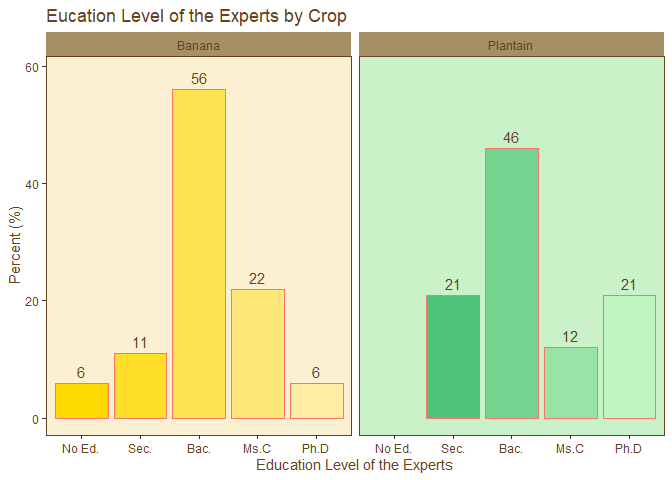
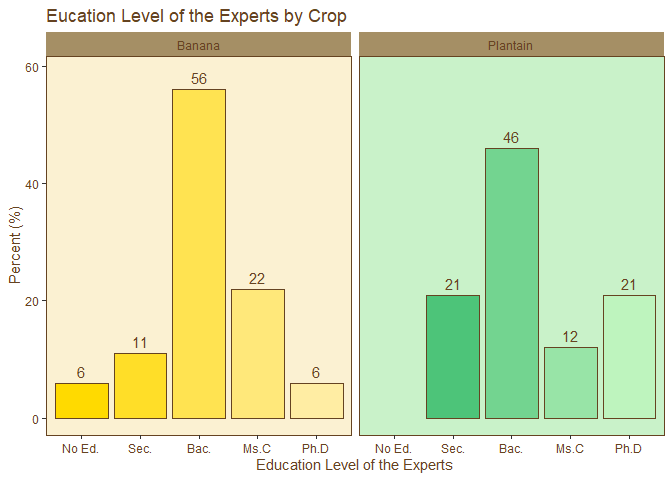
Color changed in the bar_plot_banana

diff --git a/README.md b/README.md
@@ -352,7 +352,7 @@ bar_plot_banana_plantain <- function(data_set, x_lab, y_lab, title, x, y, alpha,
   p <- ggplot(data_set, aes(x = !!x_sym, y = !!y_sym)) +
     geom_rect(aes(fill = !!background_color_sym), xmin = -Inf, xmax = Inf, ymin = -Inf, ymax = Inf, alpha = alpha) +
     geom_text(aes(label = !!y_sym), vjust = -0.5, color = "#654321") +
-    geom_bar(aes(fill = !!bar_color_sym, color="#654321"), stat = 'identity', position = position_dodge()) +
+    geom_bar(aes(fill = !!bar_color_sym), color = "#654321",stat = 'identity', position = position_dodge()) +
     scale_fill_identity() +
     labs(x = x_lab, y = y_lab, title = title) +
     theme(
